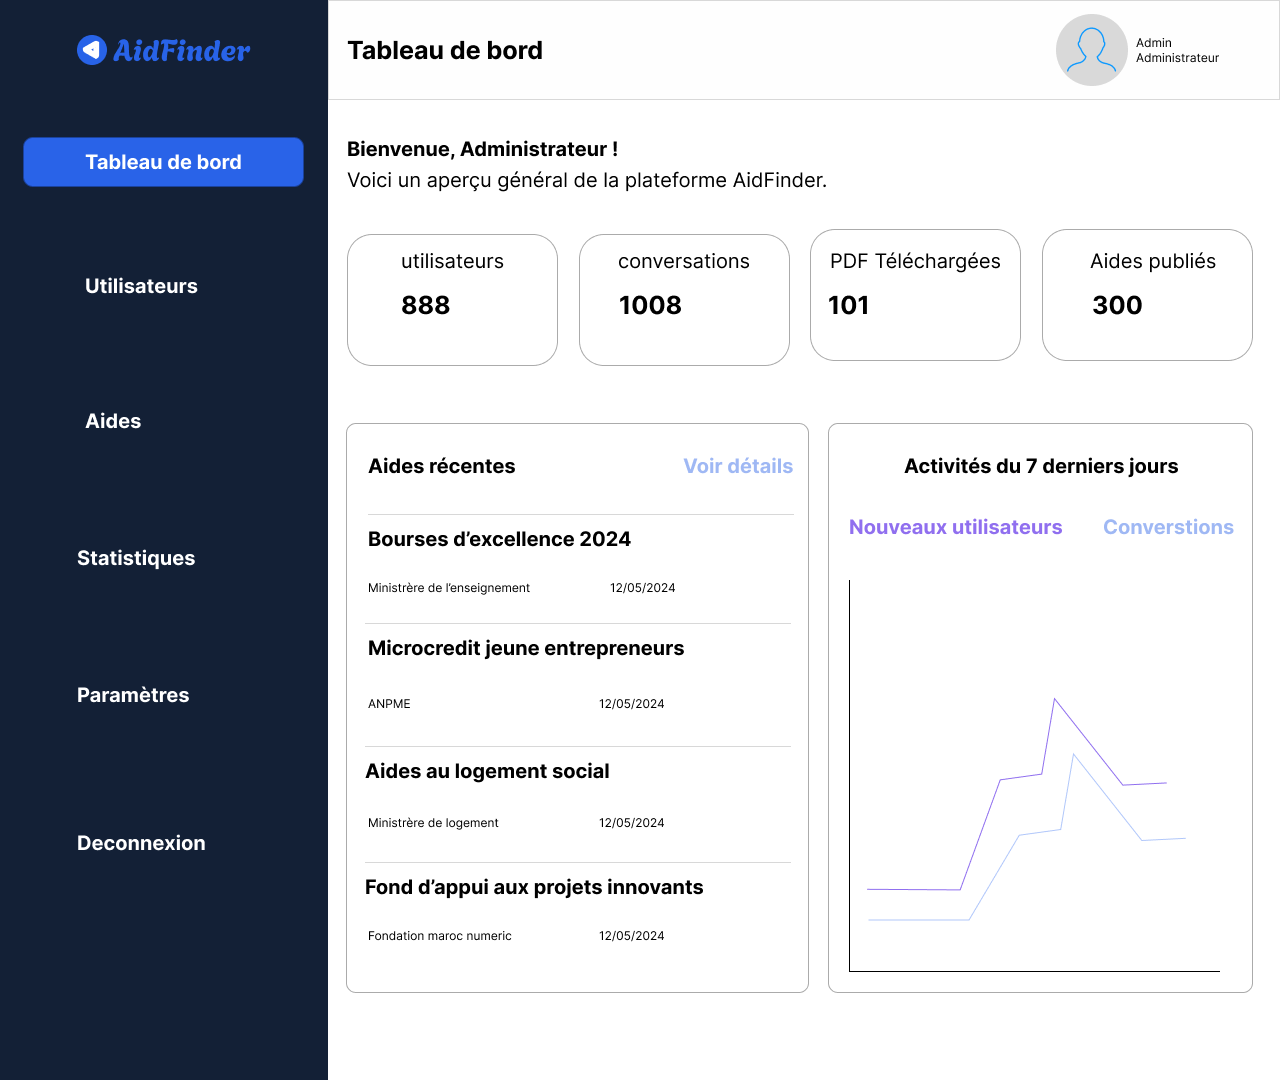
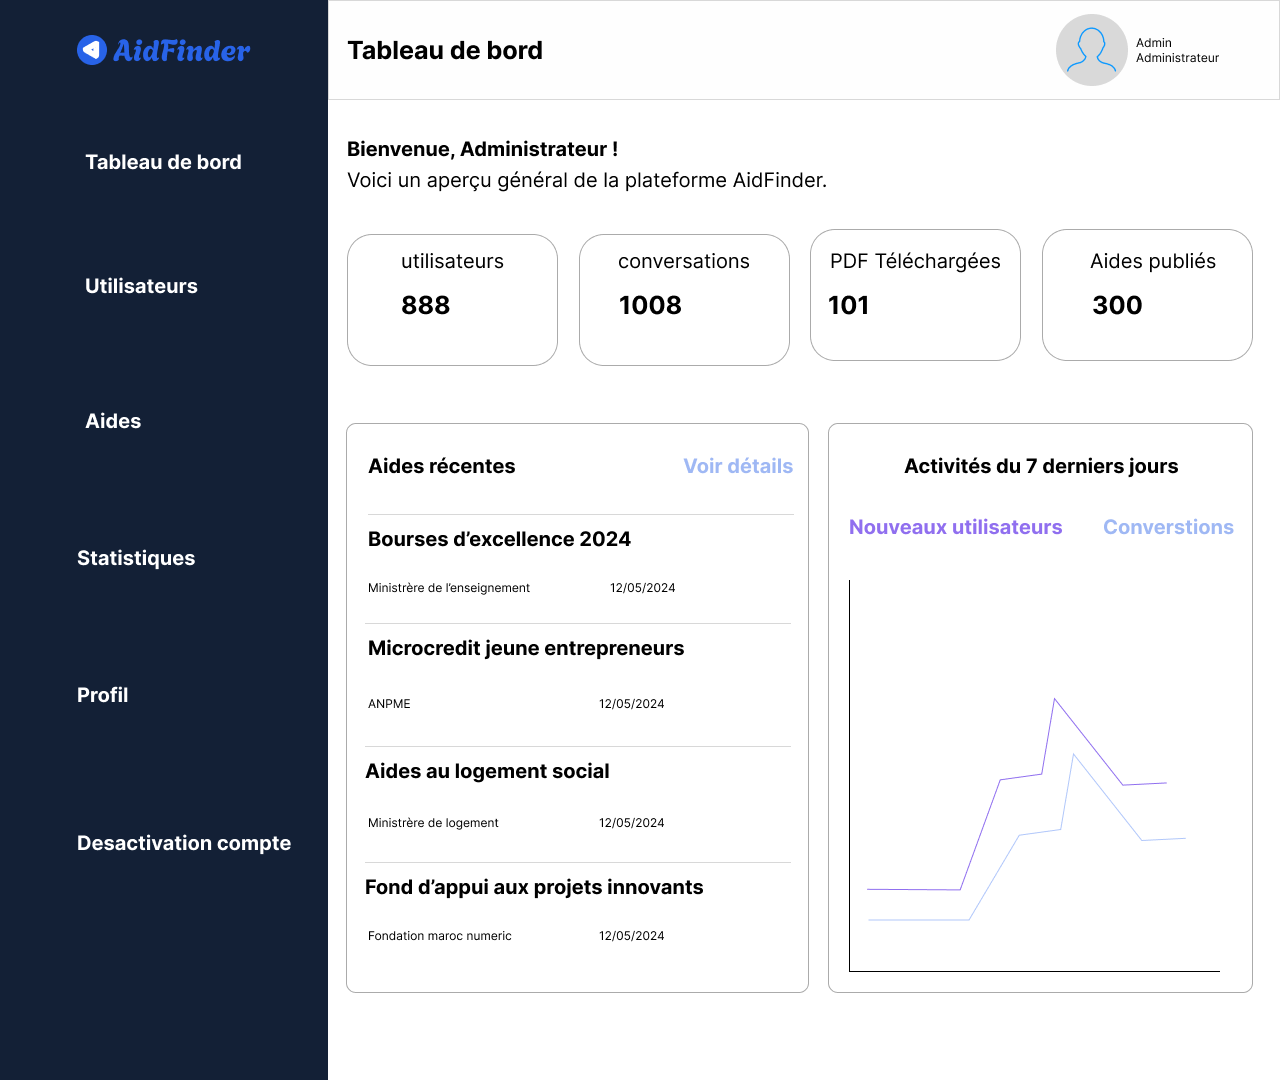
le projet est possible de runner sur les telephone desormait

Changed region(s): [[0.0, 0.1222, 0.25, 0.1833], [0.0938, 0.7639, 0.2188, 0.7944], [0.0625, 0.6417, 0.1562, 0.6722]]

diff --git a/frontend/src/config/env.js b/frontend/src/config/env.js
@@ -1,14 +1,38 @@
+const LOCAL_HOSTS = new Set(['localhost', '127.0.0.1', '::1'])
+
+function isLocalHost(hostname) {
+  return LOCAL_HOSTS.has(hostname?.toLowerCase())
+}
+
+function isLocalApiUrl(url) {
+  try {
+    return isLocalHost(new URL(url).hostname)
+  } catch {
+    return false
+  }
+}
+
 /**
  * Configuration centralisée de l'environnement frontend.
  *
  * Par défaut, l'URL de l'API utilise le même hôte que le navigateur
  * (localhost sur PC, IP locale sur téléphone). Surcharge possible via VITE_API_URL.
+ *
+ * Si VITE_API_URL pointe vers localhost/127.0.0.1 alors que la page est ouverte
+ * depuis une IP réseau (téléphone, tablette), la surcharge est ignorée pour
+ * éviter d'appeler localhost sur l'appareil mobile au lieu du PC serveur.
  */
 export function getApiBaseUrl() {
-  if (import.meta.env.VITE_API_URL) {
-    return import.meta.env.VITE_API_URL.replace(/\/$/, '')
+  const port = import.meta.env.VITE_API_PORT || '8000'
+  const browserHost = typeof window !== 'undefined' ? window.location.hostname : 'localhost'
+
+  const viteApiUrl = import.meta.env.VITE_API_URL?.replace(/\/$/, '')
+  if (viteApiUrl) {
+    if (isLocalApiUrl(viteApiUrl) && !isLocalHost(browserHost)) {
+      return `http://${browserHost}:${port}`
+    }
+    return viteApiUrl
   }
 
-  const port = import.meta.env.VITE_API_PORT || '8000'
-  return `http://${window.location.hostname}:${port}`
+  return `http://${browserHost}:${port}`
 }

diff --git a/frontend/src/utils/errors.js b/frontend/src/utils/errors.js
@@ -1,10 +1,29 @@
-/** Extrait le message d'erreur renvoyé par FastAPI depuis une erreur Axios */
+/**
+ * Extrait un message d'erreur lisible depuis une erreur Axios.
+ * Différencie les erreurs réseau, timeout, serveur et réponses API.
+ */
 export function getApiErrorMessage(error, fallback = 'Une erreur est survenue') {
-  const detail = error?.response?.data?.detail
-  if (!detail) return fallback
+  if (!error?.response) {
+    if (error?.code === 'ECONNABORTED' || error?.message?.toLowerCase().includes('timeout')) {
+      return 'La requête a expiré. Vérifiez votre connexion réseau.'
+    }
+    if (error?.request) {
+      return 'Impossible de contacter le serveur. Vérifiez que le backend est lancé et accessible depuis votre appareil.'
+    }
+    return 'Erreur réseau. Vérifiez votre connexion.'
+  }
+
+  const { status, data } = error.response
+
+  if (status >= 500) {
+    return 'Erreur serveur. Réessayez ultérieurement.'
+  }
+
+  const detail = data?.detail
   if (typeof detail === 'string') return detail
   if (Array.isArray(detail)) {
-    return detail.map((d) => d.msg).join(', ')
+    return detail.map((d) => d.msg ?? String(d)).join(', ')
   }
+
   return fallback
 }

diff --git a/frontend/src/services/api.js b/frontend/src/services/api.js
@@ -4,15 +4,18 @@ import { getApiBaseUrl } from '@/src/config/env'
 /**
  * Instance Axios centralisée pour toutes les requêtes HTTP.
  * Le token JWT est injecté automatiquement via un intercepteur.
+ * L'URL de base est recalculée à chaque requête pour rester cohérente
+ * avec l'hôte du navigateur (PC, téléphone, tablette).
  */
 const api = axios.create({
-  baseURL: getApiBaseUrl(),
   headers: {
     'Content-Type': 'application/json',
   },
 })
 
 api.interceptors.request.use((config) => {
+  config.baseURL = getApiBaseUrl()
+
   const token = localStorage.getItem('access_token')
   if (token) {
     config.headers.Authorization = `Bearer ${token}`

diff --git a/frontend/src/pages/Register.jsx b/frontend/src/pages/Register.jsx
@@ -40,7 +40,7 @@ export default function Register() {
       const data = await login({ email: form.email, password: form.password })
       navigate(getDashboardBasePath(data.role))
     } catch (err) {
-      setError(getApiErrorMessage(err, "Impossible de créer le compte"))
+      setError(getApiErrorMessage(err, 'Inscription impossible. Réessayez.'))
     } finally {
       setLoading(false)
     }

diff --git a/frontend/src/pages/Login.jsx b/frontend/src/pages/Login.jsx
@@ -29,7 +29,7 @@ export default function Login() {
       const data = await login(form)
       navigate(getDashboardBasePath(data.role), { replace: true })
     } catch (err) {
-      setError(getApiErrorMessage(err, 'Email ou mot de passe incorrect'))
+      setError(getApiErrorMessage(err, 'Connexion impossible. Réessayez.'))
     } finally {
       setLoading(false)
     }

diff --git a/frontend/README.md b/frontend/README.md
@@ -33,6 +33,8 @@ cp .env.example .env
 
 Sans `VITE_API_URL`, le frontend appelle l'API sur le **même hôte** que la page ouverte (`localhost` sur PC, IP locale sur téléphone).
 
+> **Attention :** ne pas définir `VITE_API_URL=http://localhost:8000` si vous testez depuis un téléphone ou une tablette. Sur mobile, `localhost` pointe vers l'appareil, pas vers le PC. Le frontend ignore automatiquement une telle valeur lorsqu'il est ouvert depuis une IP réseau, mais il est préférable de laisser `VITE_API_URL` commenté.
+
 ## Lancement
 
 ```bash
@@ -53,6 +55,8 @@ Vite écoute aussi sur le réseau local (`host: true`). L'URL réseau s'affiche 
 Pour connaître l'IP du PC : `ipconfig getifaddr en0` (macOS) ou `hostname -I` (Linux).
 
 Aucun changement de `.env` n'est requis : l'API est joignable sur `http://<IP-du-PC>:8000` automatiquement.
+
+Ne pas définir `VITE_API_URL=http://localhost:8000` pour les tests mobile — utiliser l'IP du PC ou laisser la déduction automatique.
 
 ## Scripts disponibles
 

diff --git a/README.md b/README.md
@@ -138,6 +138,8 @@ http://192.168.x.x:5173
 
 L'API est contactée automatiquement sur `http://192.168.x.x:8000` (même hôte que le frontend). Aucune modification de `.env` n'est nécessaire tant que le backend tourne sur le port 8000.
 
+> **Important :** ne définissez pas `VITE_API_URL=http://localhost:8000` dans `frontend/.env` si vous testez depuis un téléphone ou une tablette. Sur un appareil mobile, `localhost` désigne l'appareil lui-même, pas le PC serveur. Laissez `VITE_API_URL` commenté (comportement par défaut) ou utilisez l'IP locale du PC (`http://192.168.x.x:8000`).
+
 > **PC :** l'accès via `http://localhost:5173` continue de fonctionner normalement.
 
 ## Navigation
